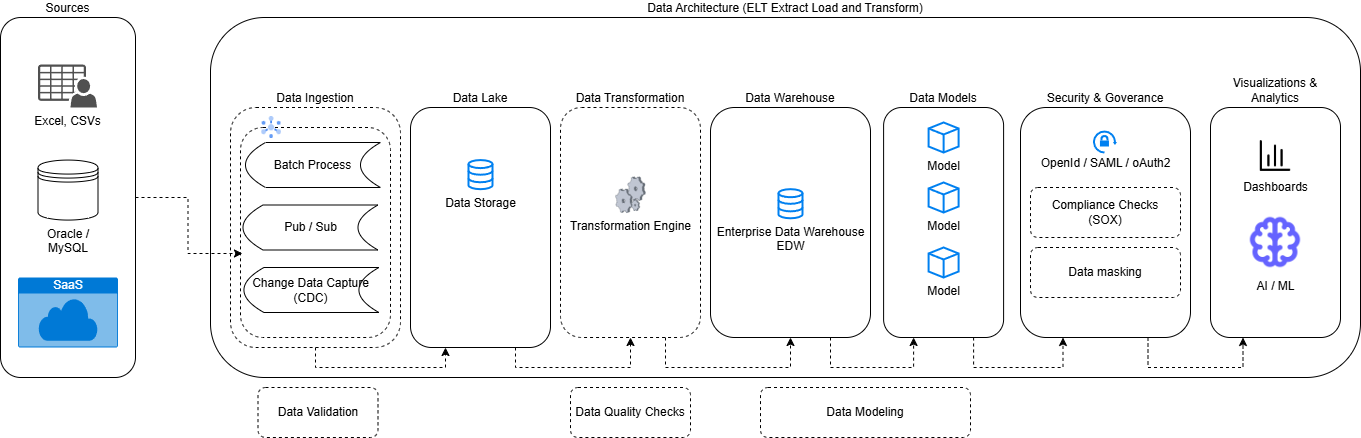
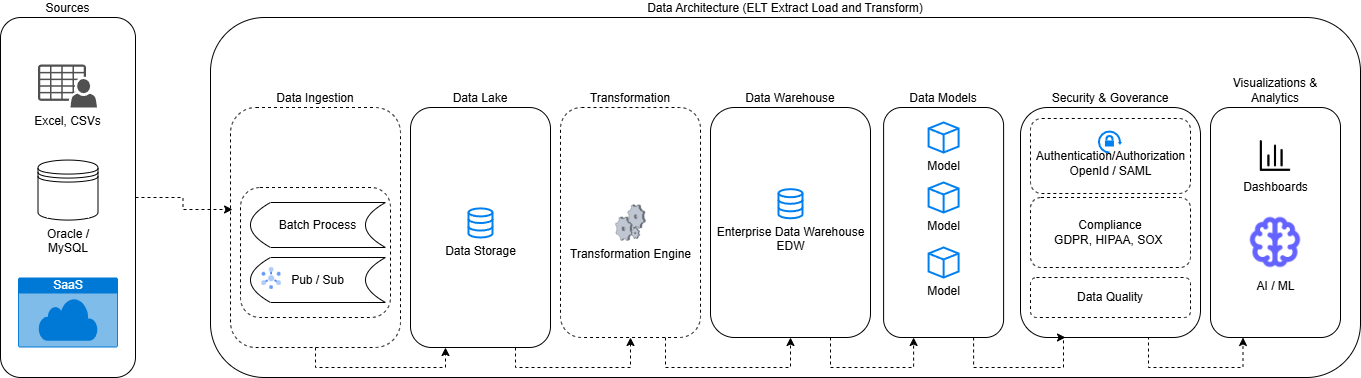
New blog posting integrations

diff --git a/_posts/2025-04-29-enterprise-integration-design.md b/_posts/2025-04-29-enterprise-integration-design.md
@@ -1,0 +1,121 @@
+---
+layout: post
+title: "Enterprise Integration Design Architecture"
+categories: Enterprise Architecture, Integration Architecure
+---
+
+
+
+
+#  Enterprise Integration Desing Architecture
+This design outlines a flexible, scalable integration design approach that supports hybrid clouds. This design levelages a hub and spoke design and does not address point to point integrations.
+
+![enterprise_integration](https://shwag-wsu.github.io/blog/enterprise_integration.png)
+
+
+- Layered design promotes reusability and clear separation of responsibilities.
+- Pub/Sub Messaging ensures decoupling between producers and consumers—scales well.
+- Security & Governance layers show mature operational readiness.
+- Support for hybrid cloud (on-prem + SaaS) integration.
+- Inclusion of Boomi and Workato in orchestration offers flexibility for integration use cases.
+
+## Pub /Sub Messaging
+
+
+### Pub/Sub Message Standards (Loop Protection)
+ {% highlight json %}
+ {
+  "messageId": "uuid-12345-abc",
+  "source_system": "workday",
+  "processed_by": ["workato", "boomi"],
+  "timestamp": "2025-04-29T10:00:00Z",
+  "event": {
+    "type": "employee.updated",
+    "payload": {...}
+  }
+}
+{% endhighlight %}
+
+
+#### Loop Prevention Strategy
+
+ - processed_by is an array of systems that have handled the message.
+ - Each subscriber checks this field before acting.
+ - Systems append their ID to the list if not present.
+ - Optionally enforce max hop count or TTL to further prevent endless retries.
+
+## Message Layer
+### Purpose
+Facilitates asynchronous communication between systems using a publish/subscribe model.
+
+### Components
+- **Publisher**: Publishes data events to the message bus.
+- **Subscribers**: Consume relevant messages based on topic or event type.
+
+### Key Considerations
+- Use unique `messageId` for deduplication and traceability.
+- Include `source_system` and `processed_by` metadata in messages.
+- Implement logic to prevent message reprocessing or infinite loops.
+- Support for retries, dead-letter queues, and idempotent subscribers.
+
+### Tech Stack Examples
+- Kafka, Google Pub/Sub, AWS SNS/SQS, RabbitMQ
+
+## Orchestration Layer
+
+### Purpose
+Coordinates business workflows and integration processes using automation platforms.
+
+### Components
+- **Workato Recipes**: No-code/low-code flows optimized for business users.
+- **Boomi Flows**: Enterprise-grade, scalable workflows for complex integrations.
+
+### Responsibilities
+- Execute business logic across systems.
+- Manage sequencing, conditional logic, error handling.
+
+### Best Practices
+- Design modular flows for reuse.
+- Include fallback and alerting mechanisms.
+
+## Consistency Layer
+
+### Purpose
+Ensures data consistency across systems via polling or event-driven techniques.
+
+### Components
+- **Change Data Capture (CDC)**: Tracks real-time data changes.
+- **Polling**: Periodic checks for data changes in non-event sources.
+
+### Best Practices
+- Prefer CDC for low-latency and efficient change detection.
+- Use timestamp or checkpoint-based polling to reduce load.
+
+## Security and Governance Layer
+
+### Purpose
+Enforces policies around authentication, data protection, and compliance.
+
+### Components
+- **Authentication/Authorization**: OAuth2, SAML, OpenID
+- **Encryption**: Transit (TLS/SFTP), At-rest (PGP)
+- **Secrets Management**: Secure handling of API keys, tokens
+- **Data Masking**: Sensitive data obfuscation
+
+### Governance Inclusions
+- Centralized audit trail and logging
+- Enforcement of access controls
+
+## Governance Layer
+
+### Purpose
+Supports transparency, traceability, and maintainability of integration flows.
+
+### Components
+- **Logging**: Centralized log management for observability.
+- **Audit Trail**: Change tracking for compliance.
+- **Reusable Components**: Common connectors, transformation scripts, validation routines.
+
+### Standards
+- Use correlation IDs across logs for traceability.
+- Enforce logging policies for all components.

diff --git a/_posts/2025-04-29-modular-data-warehouse.md b/_posts/2025-04-29-modular-data-warehouse.md
@@ -16,8 +16,8 @@ This architecture outlines a flexible, scalable ELT (Extract, Load, Transform) a
 ### 🔧 Modular Data Warehouse Reference Architecture
 
 ### 1. Sources
-- Internal DBs: MySQL, PostgreSQL
 - File-based: Google Sheets, Excel, CSVs
+- Internal DBs: MySQL, PostgreSQL
 - SaaS: Salesforce, HubSpot
 
 ### 2. Data Ingestion
@@ -65,17 +65,14 @@ Database              | Snowflake             | Event Grid / Service Bus | Googl
 ### 4. Transformation Layer (ELT)
 Transformations happen after loading into the lake or warehouse.
 
-Tools: dbt, Apache Spark, SQL scripts, or data orchestration frameworks.
 
 Logic: Joins, filters, aggregation, and business rule enforcement.
 
 <b>Benefits:</b>
-
-Scales better with cloud-native warehouses.
-
-Version-controlled transformations improve governance.
-
-Allows unit tests and CI/CD for data logic.
+ - Scales better with cloud-native warehouses.
+ - Version-controlled transformations improve governance.
+ - Allows unit tests and CI/CD for data logic.
+ - Data quality layer
 
 #### Tool Options
 
@@ -86,17 +83,11 @@ dbt,Apache Spark, SQL scripts, or data orchestration frameworks |
 ### 5. Data Warehouse (EDW)
 A performant, query-optimized environment where cleansed and transformed data lives.
 
-Cloud Options: Snowflake, BigQuery, Redshift, Synapse
-
-Multi-cloud: Snowflake or Starburst (Trino)
-
 <b>Use Case:</b>
 
-Business Intelligence dashboards
-
-Ad hoc reporting and advanced analytics
-
-Ensures data consistency and performance
+- Business Intelligence dashboards
+- Ad hoc reporting and advanced analytics
+- Ensures data consistency and performance
 
 #### Tool Options
 
@@ -114,7 +105,7 @@ Stored in the warehouse for BI tools to consume
 
 
 
-### 7. Governance & Compliance
+### 7. Security & Governance 
 
 <b>Authentication/Authorization:</b> OAuth2, SAML, role-based access control
 
